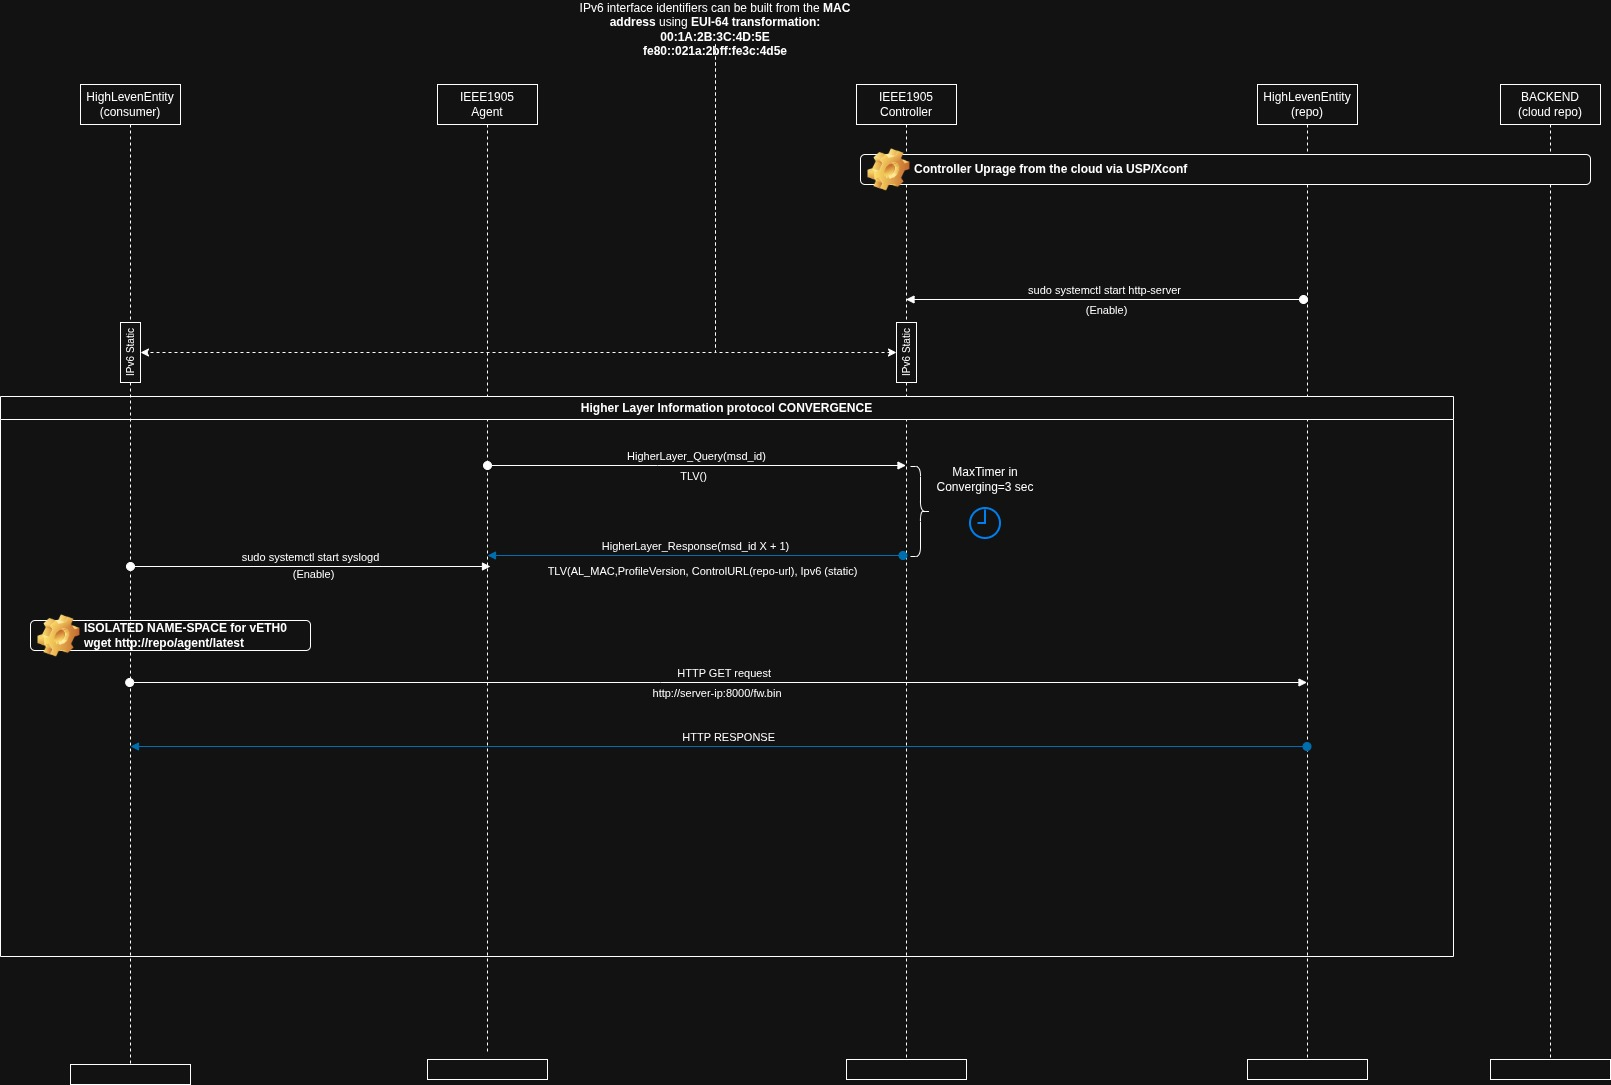
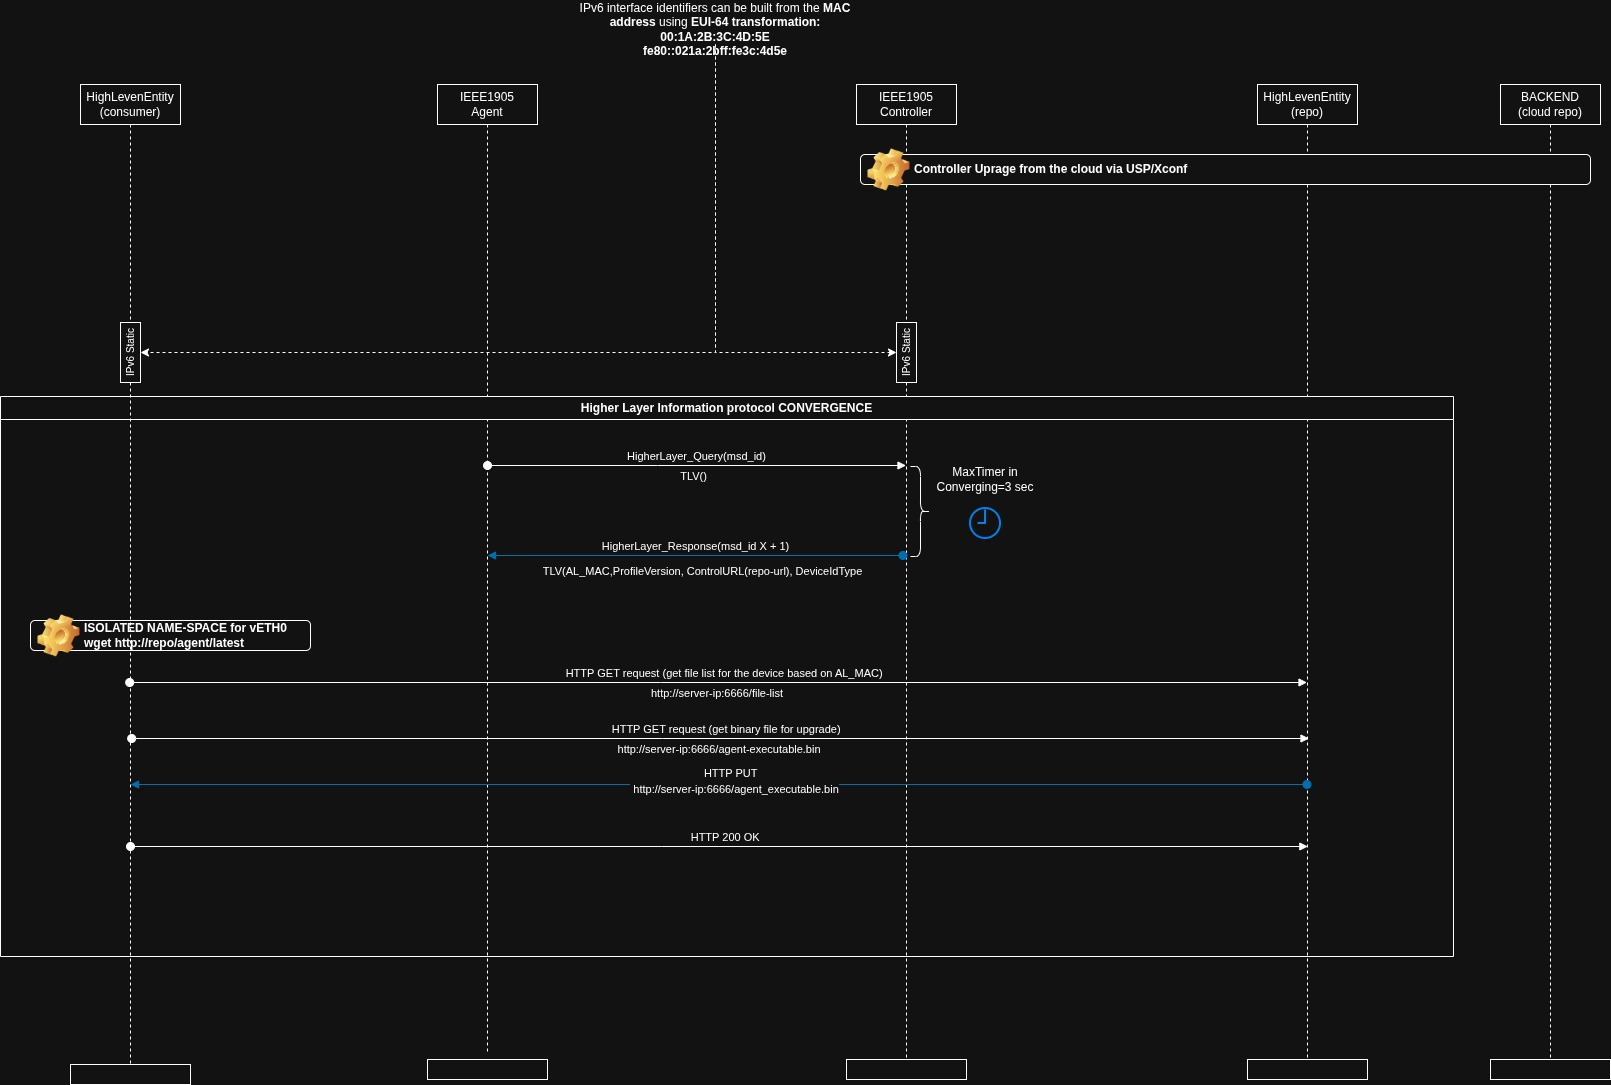
Adding new diagrams for artifact exchange service

diff --git a/README.md b/README.md
@@ -354,7 +354,7 @@ Operational notes:
 ### Artifact Exchange Server
 
 The artifact exchange server provides an auxiliary HTTP service for transferring operational artifacts between the controller and agents over the IEEE1905 control interface.  
-The service is discovered through topology convergence and Higher Layer Information metadata, allowing agents to learn the controller artifact exchange URL without a separate discovery protocol.
+The service is discovered through topology convergence and Higher Layer Information metadata, allowing agents to learn the controller artifact exchange URL without a separate discovery protocol. In practice, clients consume the server URL from the Control URL TLV carried in the Higher Layer Response. That URL includes the controller IPv6 address directly to avoid unnecessary resolution steps. Current controller and agent roles are exchanged with a vendor proprietary TLV; this can be replaced in the future with a standard TLV such as Supported Role.
 
 The controller runs the server side of the service and exposes artifacts prepared under the transmit artifact tree. Agents run the client side, periodically pulling controller-to-agent artifacts such as upgrade binaries and WASM applications, and pushing agent-to-controller artifacts such as logs.
 
@@ -363,19 +363,6 @@ The controller runs the server side of the service and exposes artifacts prepare
 3. Supported artifact direction is explicit: `binaries` and `wasm` are sent from controller to agents, while `logs` are sent from agents to the controller.
 4. Artifact names are filtered by AL MAC prefix so each node only processes artifacts addressed to it.
 5. Successful and failed transfers are moved into quota-aware archive or failure storage to prevent unbounded filesystem growth.
-
-### Syslog Integration
-
-IEEE1905 service logs can be integrated with system syslog to simplify operational monitoring and troubleshooting in production deployments.  
-For discovery and exchange of logging capabilities and operational metadata between peers, we will use the IEEE1905 Higher Layer Information Protocol, specifically the **Higher Layer Query Message** and **Higher Layer Response Message**.
-
-1. The service should log key control-plane events with consistent severity levels (`INFO`, `WARN`, `ERROR`), including registration, topology convergence, role transitions, and forwarding decisions.
-2. Logs should include stable context fields (interface, local AL MAC, remote AL MAC, message type, message ID) to enable correlation across components.
-3. In RDK-B integrations, logs should be forwarded to the platform syslog/journald pipeline and retained according to platform policy.
-4. Rate limiting should be applied for repeated transient failures to avoid log flooding while preserving first-occurrence diagnostics.
-5. Higher Layer Query/Response exchange should be used to synchronize or verify peer logging-related capabilities before relying on cross-node diagnostics.
-
-![ARCH](docs/architecture/call_flow_diagram/IEEE1905_syslog.jpg)
 
 ### Firmware Upgrade
 
@@ -392,6 +379,23 @@ The controller distributes, via IEEE1905, the upgrade metadata required by exten
 5. During rolling upgrades, Higher Layer Query/Response should be used to detect peer upgrade state/capability and gate feature activation until compatibility is confirmed.
 
 ![ARCH](docs/architecture/call_flow_diagram/IEEE1905_fw_repo.jpg)
+
+### Logfile Exchange
+
+Logfile exchange should provide a structured way to move operational logs from agents to the controller for diagnostics, observability, and remote troubleshooting without requiring a separate discovery mechanism.  
+Discovery metadata between IEEE1905 entities will be handled through the IEEE1905 Higher Layer Information Protocol using **Higher Layer Query Message** and **Higher Layer Response Message** exchanges.
+
+In this model, the **controller** exposes the artifact exchange HTTP service and receives uploaded log artifacts from agents.  
+Agents learn the controller endpoint from the Control URL TLV carried in the Higher Layer Response, where the URL includes the controller IPv6 address directly to avoid unnecessary resolution steps. Controller and agent roles are currently exchanged through a vendor proprietary TLV, which can be replaced in the future with a standard TLV such as Supported Role.
+
+1. Logfile exchange should use the `logs` artifact direction from agent to controller, while preserving artifact naming based on AL MAC, timestamp, and original filename.
+2. Uploaded logs should be stored in the artifact exchange receive tree and moved into archive or failure storage according to transfer and processing outcome.
+3. Log exports should include enough stable context to correlate files with topology state, role, interface, and remote peer identity.
+4. Transfers should tolerate intermittent reachability and retry safely without causing duplicate processing or unbounded storage growth.
+5. Higher Layer Query/Response exchange should be used to verify peer logfile-exchange capability before relying on cross-node log collection workflows.
+
+![ARCH](docs/architecture/call_flow_diagram/IEEE1905_log.jpg)
+
 
 ### IEEE1905.1 Forwarding Table
 
@@ -1122,7 +1126,7 @@ cargo bench -p ieee1905 --bench codec_parse_bench -- codec_parse_cmdu
 
 Artifacts can be transferred automatically between the controller and the agent as an auxiliary service.
 
-This mechanism will rely on topology convergence to synchronize the controller's IPv6 address so that agents can discover where to pull artifacts from and where to push artifacts to. The goal is to reuse topology knowledge already maintained by IEEE1905 instead of introducing a separate discovery mechanism.
+This mechanism will rely on topology convergence to synchronize the controller's IPv6 address so that agents can discover where to pull artifacts from and where to push artifacts to. The server URL is consumed from the Control URL TLV present in the Higher Layer Response, and that URL includes the controller IPv6 address directly to avoid unnecessary resolution steps. Controller and agent roles are currently exchanged through a vendor proprietary TLV, with the intent to replace that mechanism in the future with a standard TLV such as Supported Role. The goal is to reuse topology knowledge already maintained by IEEE1905 instead of introducing a separate discovery mechanism.
 
 On the controller side, we will implement an HTTP artifact exchange service using `axum`. On the client side, we will use `reqwest` so an AL entity can push artifacts to a remote controller or pull artifacts from it when required.
 